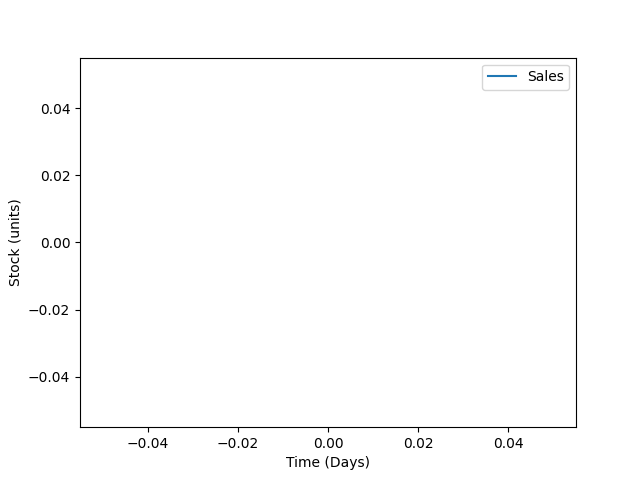
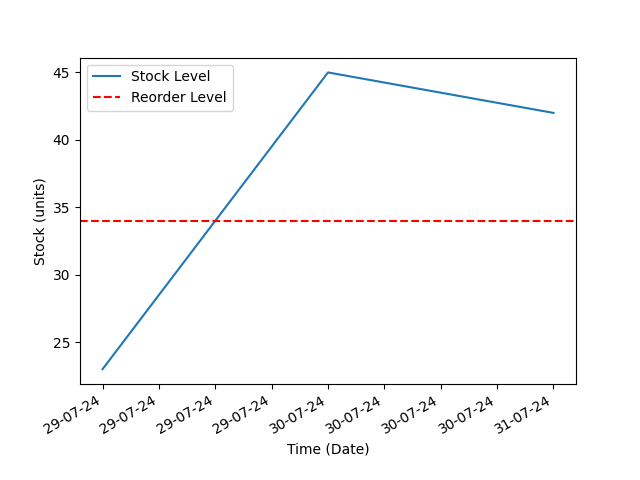
Graph Generation - Working
Features added:

second database - this allows for multiple values to be saved.

record of when stock is added - day - month - year.
This will be used for the record of changes

diff --git a/DevelopmentBranch/webDashboardStockCentre.html b/DevelopmentBranch/webDashboardStockCentre.html
@@ -1,0 +1,12 @@
+<!DOCTYPE html>
+<html lang="en">
+<head>
+    <meta charset="UTF-8">
+    <title>Dashboard</title>
+</head>
+<body>
+    <h1>Stock Centre:</h1>
+    <a href="http://localhost:63342/ERP/DevelopmentBranch/webDashboard.html?_ijt=dondhqa48ugujgf1q9kj8te80q&_ij_reload=RELOAD_ON_SAVE">Back</a>
+    <img src="plot.png" alt="Sample Plot">
+</body>
+</html>

diff --git a/DevelopmentBranch/webDashboard.html b/DevelopmentBranch/webDashboard.html
@@ -1,0 +1,11 @@
+<!DOCTYPE html>
+<html lang="en">
+<head>
+    <meta charset="UTF-8">
+    <title>Test</title>
+</head>
+<body>
+    <h1>Web Dashboard</h1>
+    <a href="http://localhost:63342/ERP/DevelopmentBranch/webDashboardStockCentre.html?_ijt=dondhqa48ugujgf1q9kj8te80q&_ij_reload=RELOAD_ON_SAVE">Stock Centre</a>
+</body>
+</html>

diff --git a/DevelopmentBranch/stock_managment.py b/DevelopmentBranch/stock_managment.py
@@ -3,44 +3,100 @@ import webbrowser
 from tkinter import ttk, messagebox
 from matplotlib import pyplot as plt
 from matplotlib.backends.backend_tkagg import FigureCanvasTkAgg
-import bcrypt
+import matplotlib.dates as mdates
 import sqlite3
+import datetime
 
 current_canvas = None
 
-def load_graph_data(username: str, graph_frame):
+url = "http://localhost:63342/ERP/DevelopmentBranch/webDashboardStockCentre.html?_ijt=dondhqa48ugujgf1q9kj8te80q&_ij_reload=RELOAD_ON_SAVE"
+
+def on_update_graph_data(stock_entry, reorder_level_entry, username, graph_frame):
     # Connect to the SQLite database
     conn = sqlite3.connect('erp_system.db')
 
     # Create a cursor object to interact with the database
     cursor = conn.cursor()
 
-    cursor.execute("SELECT * FROM users WHERE username = ?", (username,))
+    new_stock_level = stock_entry.get()
+    new_reorder_level = reorder_level_entry.get()
+    current_date = datetime.datetime.now().strftime("%d-%m-%y")
 
-    # Fetches the next row of the result set.
-    # Appending the data to a list
-    result = cursor.fetchone()
-    result_list = [result]
+    if new_stock_level.strip() != "":
+        # Defining the update statement - Stock history
+        insert_stock_history = """
+        INSERT INTO stock_history(username, date, stock)
+        VALUES (?, ?, ?)
+        """
 
-    print(result_list)
-    # Separating the values used within the graph
-    days: int = result_list[0][3]
-    stock: int = result_list[0][4]
-    reorder_level: int = result_list[0][5]
-    print(days, stock, reorder_level)
+        cursor.execute(insert_stock_history, (username, current_date, new_stock_level))
 
-    # use this data within the graphs generation......
-    stock_graph_generator(days, stock, reorder_level, graph_frame)
+    if new_reorder_level.strip() != "":
+        # Defining the update statements
+        reorder_level_update_statement = """
+        UPDATE users
+        SET reorder_level = ?
+        WHERE username = ?
+        """
 
-def stock_graph_generator(days: int, stock: int, reorder_level: int, graph_frame):
+        # Execute the updates with the new reorder level and username
+        cursor.execute(reorder_level_update_statement, (new_reorder_level, username))
+
+    # Commit the changes
+    conn.commit()
+
+    # Close the connection
+    conn.close()
+
+    load_graph_data(username, graph_frame, reorder_level_entry)
+
+
+def load_graph_data(username: str, graph_frame, reorder_level_entry):
+    # Connect to the SQLite database
+    conn = sqlite3.connect('erp_system.db')
+
+    # Create a cursor object to interact with the database
+    cursor = conn.cursor()
+
+    # Fetch the reorder level from users table
+    cursor.execute("SELECT reorder_level FROM users WHERE username = ?", (username,))
+    reorder_level = cursor.fetchone()[0]
+
+    # Fetch stock history data
+    cursor.execute("SELECT date, stock FROM stock_history WHERE username = ?", (username,))
+    stock_data = cursor.fetchall()
+
+    # Close the connection
+    conn.close()
+
+    # Prepare data for the graph
+    # MAKE SURE I UNDERSTAND THIS FUNCTION
+    dates = [datetime.datetime.strptime(row[0], "%d-%m-%y") for row in stock_data]
+    stock_values = [row[1] for row in stock_data]
+
+    # Insert the reorder level into the entry
+    reorder_level_entry.delete(0, tk.END)
+    reorder_level_entry.insert(0, reorder_level)
+
+    # use this data within the graphs generation
+    stock_graph_generator(dates, stock_values, reorder_level, graph_frame)
+
+
+def stock_graph_generator(dates: list, stock_values: list, reorder_level: int, graph_frame):
     global current_canvas
 
     # Plots the graph
     fig, ax = plt.subplots()
-    ax.plot(days, stock, label="Sales")
+    ax.plot(dates, stock_values, label="Stock Level")
+    ax.axhline(y=reorder_level, color='r', linestyle='--', label='Reorder Level')
+
+    # Format the date on the x-axis
+    ax.xaxis.set_major_locator(mdates.AutoDateLocator())
+    ax.xaxis.set_major_formatter(mdates.DateFormatter('%d-%m-%y'))
+    fig.autofmt_xdate()  # Rotate date labels
 
     # Adding the labels
-    ax.set_xlabel("Time (Days)")
+    ax.set_xlabel("Time (Date)")
     ax.set_ylabel("Stock (units)")
     ax.legend()
 
@@ -49,18 +105,22 @@ def stock_graph_generator(days: int, stock: int, reorder_level: int, graph_frame
         current_canvas.get_tk_widget().destroy()
 
     # Drawing the canvas
-    canvas = FigureCanvasTkAgg(fig, graph_frame)
-    canvas.draw()
-    canvas.get_tk_widget().grid(row=0, column=0)
+    current_canvas = FigureCanvasTkAgg(fig, graph_frame)
+    current_canvas.draw()
+    current_canvas.get_tk_widget().grid(row=0, column=0)
 
     # Every time the graph is generated, the image will be updated
     # This image is used within webDashboard.html - the ERP website.
     plt.savefig('plot.png')
 
+
 def clear_window(self):
     """Clear all widgets in the window."""
     for widget in self.winfo_children():
         widget.destroy()
+
+def on_web_dashboard():
+    webbrowser.open(url)
 
 def stock_management_dashboard(self, username):
     self.clear_window()
@@ -69,35 +129,51 @@ def stock_management_dashboard(self, username):
     dashboard_frame = tk.Frame(self)
     dashboard_frame.grid(row=0, column=0)
 
-    # Control for stock
+    # Control Frame for stock
     control_frame = tk.Frame(dashboard_frame)
     control_frame.grid(row=0, column=0, padx=5, pady=5)
 
-    # Graph
+    # Graph Frame
     graph_frame = tk.Frame(dashboard_frame)
     graph_frame.grid(row=0, column=1, padx=5, pady=5)
 
-    # Record of changes made - log
+    # Record Frame of changes made - log
     record_frame = tk.Frame(dashboard_frame)
     record_frame.grid(row=0, column=2, padx=5, pady=5)
 
     # controls ----
-    reference_control = tk.Label(control_frame, text='Reference controls')
-    reference_control.grid(row=0, column=0)
+    # Stock Entry - Data Entry
+    stock_entry_label = tk.Label(control_frame, text="Stock Entry")
+    stock_entry_label.grid(row=0, column=0)
+    stock_entry = tk.Entry(control_frame)
+    stock_entry.grid(row=0, column=1, padx=5, pady=5)
+
+    # Reorder level Entry - Data Entry
+    reorder_entry_label = tk.Label(control_frame, text="Reorder Entry")
+    reorder_entry_label.grid(row=1, column=0)
+    reorder_level_entry = tk.Entry(control_frame)
+    reorder_level_entry.grid(row=1, column=1, padx=5, pady=5)
+
+    # Collects data for graph generation
+    submit_button = tk.Button(control_frame, text="Submit",
+                              command=lambda: on_update_graph_data(stock_entry, reorder_level_entry, username,
+                                                                   graph_frame))
+    submit_button.grid(row=2, column=0, padx=5, pady=5)
 
     button = tk.Button(control_frame, text="Go to Home Page", command=lambda: self.show_home(username))
-    button.grid(row=1, column=0, padx=5, pady=5)
+    button.grid(row=3, column=0, padx=5, pady=5)
+
+    # Loads up the Webpage
+    web_dashboard_button = tk.Button(control_frame, text="Web Dashboard", command=on_web_dashboard)
+    web_dashboard_button.grid(row=4, column=0, padx=5, pady=5)
 
     # graph
     reference_graph = tk.Label(graph_frame, text="Reference Graph")
     reference_graph.grid(row=0, column=0)
 
     # Fetches the data from the database
-    load_graph_data(username, graph_frame)
+    load_graph_data(username, graph_frame, reorder_level_entry)
 
     # records
     reference_record = tk.Label(record_frame, text="Reference Record")
     reference_record.grid(row=0, column=0)
-
-
-

diff --git a/DevelopmentBranch/account_managment.py b/DevelopmentBranch/account_managment.py
@@ -69,13 +69,10 @@ def data_integrity(username: str) -> bool:
         conn.close()
 
 
-def on_account_creation(username_entry, password_entry):
+def on_account_creation(username_entry, password_entry, reorder_level):
     # All data used within the database
     username: str = username_entry.get().strip()
     password: str = password_entry.get().strip()
-    days: int = 0
-    stock: int = 0
-    reorder_level: int = 0
 
     if data_integrity(username):
         try:
@@ -94,14 +91,12 @@ def on_account_creation(username_entry, password_entry):
                 user_id INTEGER PRIMARY KEY AUTOINCREMENT,
                 username TEXT NOT NULL UNIQUE,
                 password_hash TEXT NOT NULL,
-                days INTEGER,
-                stock INTEGER,
-                reorder_level INTEGER               
+                reorder_level INTEGER NOT NULL             
             )
             ''')
 
-            cursor.execute("INSERT INTO users (username, password_hash, days, stock, reorder_level) VALUES (?, ?, ?, ?, ?)",
-                           (username, password_hash, days, stock, reorder_level))
+            cursor.execute("INSERT INTO users (username, password_hash, reorder_level) VALUES (?, ?, ?)",
+                           (username, password_hash, reorder_level))
 
             # Commit the changes
             conn.commit()

diff --git a/DevelopmentBranch/erp_hub.py b/DevelopmentBranch/erp_hub.py
@@ -6,7 +6,7 @@ class SystemHub(tk.Tk):
     def __init__(self, username):
         super().__init__()
         self.title = 'Home'
-        self.geometry('500x500')
+        self.geometry('1225x500')
 
         # Initially show the home page
         self.show_home(username)
